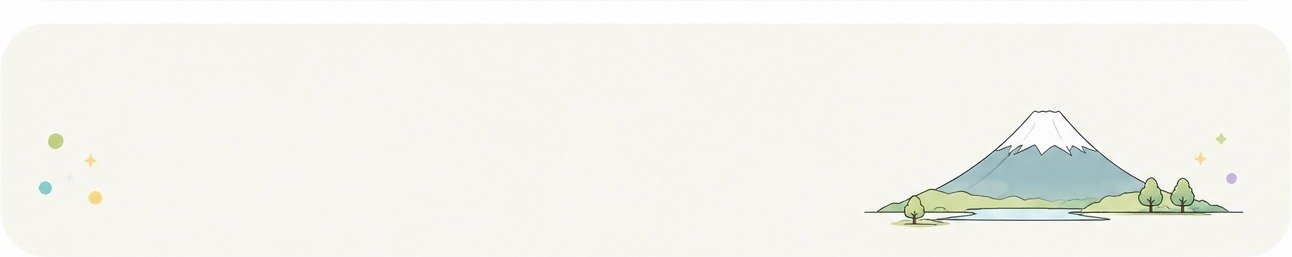
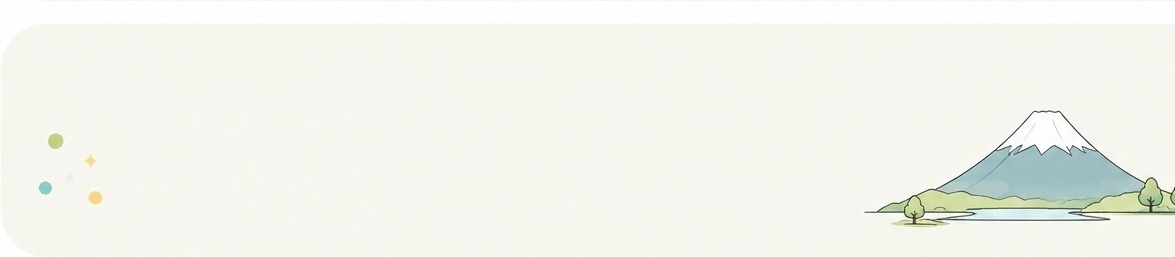
地域選択ページ調整＋ホームスケジュール色変更
- パノラマ: 下部余白をクロップして地図を拡大（1472x853→1396x570）、3エリアを大きく表示
- 吹き出しピン位置を各ランドマークの真上に再調整（山梨54%/多摩40%/23区33%）
- 山梨カードのバナー: 右端の木・装飾をトリミングし富士山を右寄りに
- ホーム「開催スケジュール」の各総区名の色をコーラル→黒（ink）に変更

diff --git a/index.html b/index.html
@@ -1306,9 +1306,9 @@
     color: var(--color-ink-soft);
     margin-top: 2px;
   }
-  .pin-yamanashi { left: 18%; top: 46%; color: var(--color-green); border-color: var(--color-green); }
-  .pin-tama      { left: 50%; top: 37%; color: var(--color-purple); border-color: var(--color-purple); }
-  .pin-tokyo23   { left: 81%; top: 38%; color: var(--color-coral); border-color: var(--color-coral); }
+  .pin-yamanashi { left: 18%; top: 54%; color: var(--color-green); border-color: var(--color-green); }
+  .pin-tama      { left: 50%; top: 40%; color: var(--color-purple); border-color: var(--color-purple); }
+  .pin-tokyo23   { left: 80%; top: 33%; color: var(--color-coral); border-color: var(--color-coral); }
 
   /* Section title above the 3 cards */
   .region-section-title {
@@ -1540,7 +1540,7 @@
   }
   /* Home schedule preview: area names use coral color without underline */
   .schedule-content .event-name {
-    color: var(--color-coral);
+    color: var(--color-ink);
     font-weight: 700;
   }
   .month-header {
